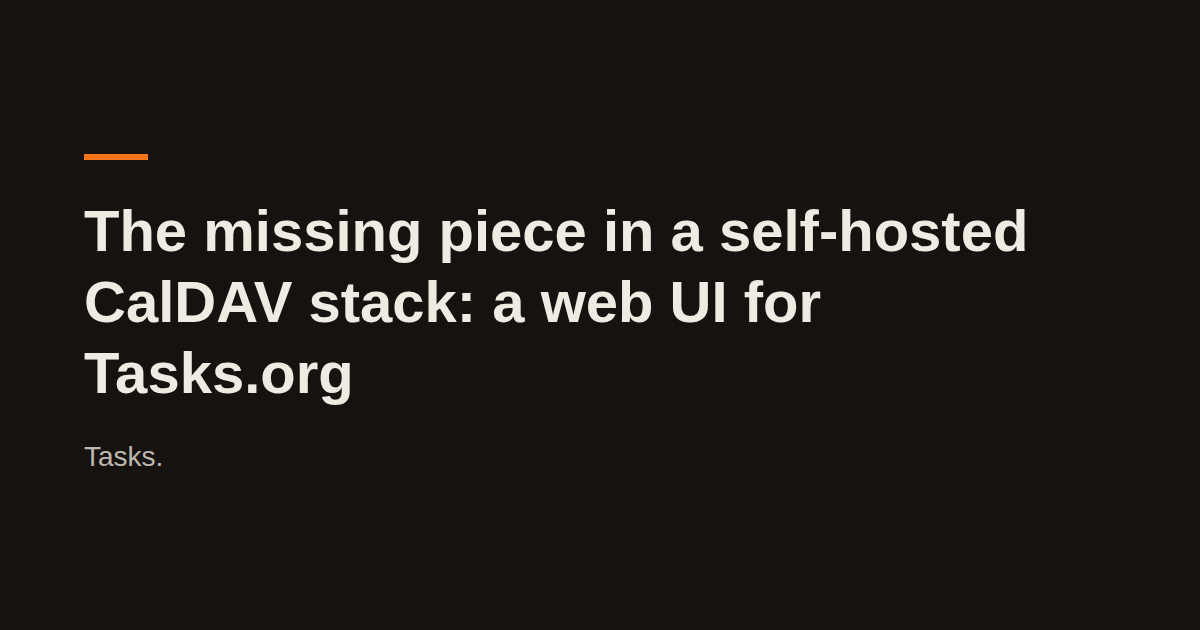
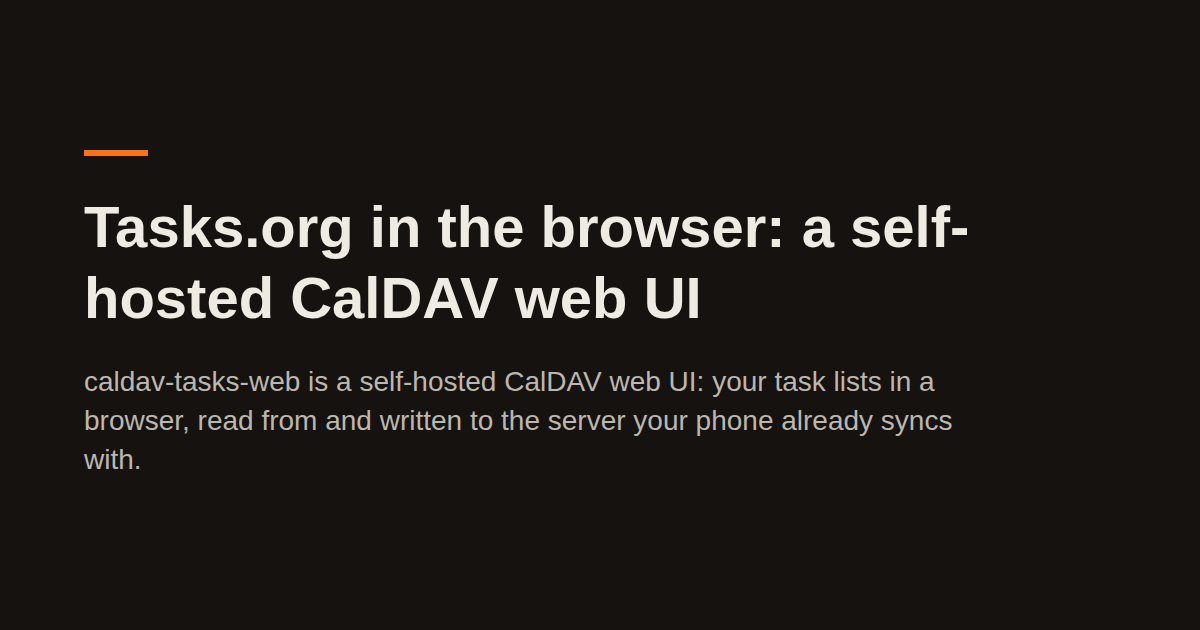
docs(blog): rewrite the Tasks.org CalDAV web UI post (#576)
* docs(blog): rewrite the Tasks.org CalDAV web UI post

* docs(blog): describe the rebuilt caldav-tasks-web

The post described the first version, which kept accounts in SQLite and could lose data on save. It now describes the current app at 8f13fae: one owner per install, no server database, repeating tasks, offline edits, with real screenshots from a local Radicale and the README's install steps.

* docs(blog): name what the first caldav version lacked

---------

Changed region(s): [[0.0617, 0.3317, 0.8633, 0.5127], [0.0617, 0.5429, 0.8017, 0.754], [0.0617, 0.2111, 0.1233, 0.2714]]

diff --git a/content/blog/self-hosted-caldav-web-ui-tasks-org.md b/content/blog/self-hosted-caldav-web-ui-tasks-org.md
@@ -1,145 +1,231 @@
 ---
-title: "The missing piece in a self-hosted CalDAV stack: a web UI for Tasks.org"
-description: "Tasks.org syncs Android tasks to CalDAV. There is no web UI for that data. I built a web app on top of the CalDAV server you already run. It is now being rewritten."
+title: "Tasks.org in the browser: a self-hosted CalDAV web UI"
+description: "caldav-tasks-web is a self-hosted CalDAV web UI: your task lists in a browser, read from and written to the server your phone already syncs with. Made for Tasks.org on Android."
 tldr:
-  - "Update, 8 October 2026: the app is being rewritten. The current version does not work with Stalwart and can lose data when saving a task. There is no demo."
-  - "Tasks.org syncs Android tasks to CalDAV, but no web client existed for that data, so I built a stateless web app on top of the CalDAV server you already run."
-  - "The CalDAV server stays the only source of truth: the app stores only accounts and encrypted credentials, so switching servers moves no todos."
-  - "You don't need Nextcloud for it: the whole stack runs on one small box next to your CalDAV server."
+  - "Update: rewritten for the rebuilt app. It has no database and no accounts; one install serves one person."
+  - "caldav-tasks-web opens your Tasks.org lists in a browser, straight from the CalDAV server your phone syncs with. No second account, no second copy."
+  - "The server only relays; the browser edits a task's text in place, so fields the phone stored, reminders included, survive an edit."
+  - "Tested against Radicale 3.5.4 in Chromium, and I run it with Stalwart 0.16. It is one Docker container behind your HTTPS reverse proxy."
 publishedAt: "2026-07-22"
-readTime: 9
+updatedAt: "2026-10-30"
+readTime: 7
 coverImage: "/img/blog/self-hosted-caldav-web-ui-tasks-org/cover.png"
 coverAlt: "The Hide the Pain Harold meme: Harold smiles at \"Tasks on my phone: synced to CalDAV\", then forces the same smile at \"Tasks on my laptop: no web UI\"."
 coverSize: "480x601"
 topic: "self-hosting"
 relatedTool: "caldav-tasks-web"
+catalogSlug: "cto-advisory-retainer"
 ---
 
-> **Update, 8 October 2026:** The app is being rewritten from scratch, with a
-> new design and the shared CalDAV libraries `@spy4x/caldav` and
-> `@spy4x/time/ical`. The current version does not work with Stalwart, can lose
-> data when you save a task, and has no service worker. There is no public demo.
-> Do not install the current version. This post describes what I set out to
-> build in July 2026, not what the repo does today. Progress is in the
-> [repository](https://github.com/spy4x/caldav-tasks-web).
+> **Update, 30 October 2026:** I rewrote this post for the rebuilt version of
+> caldav-tasks-web. The July post described the first version, which the rewrite
+> replaced; [what changed](#what-changed-since-the-first-version) is below.
 
-Tasks.org syncs Android tasks to CalDAV cleanly. There is no web UI for that
-data. After a year of reaching for my phone to edit a todo at my desk, I built
-one. Here is the gap I noticed in the self-hosted ecosystem, and how I closed it
-without breaking the standards-first contract most of us signed up for.
+![The Today screen of caldav-tasks-web in the dark theme: an Add a task box, two overdue tasks, Fix the gate in Home and Call the plumber in Errands, and four tasks due today with their list names and tags](/img/blog/self-hosted-caldav-web-ui-tasks-org/today.webp "Today, across every list, from a local Radicale with made-up tasks")
 
-## The gap in the stack
+Tasks.org on Android syncs your tasks to a CalDAV server you control. At a desk,
+there is no good way to see them: Tasks.org has no web UI. caldav-tasks-web is
+the self-hosted web UI I built for that gap. It opens the same lists in a
+browser, on the same CalDAV server, and writes your edits back the way Tasks.org
+wrote them.
 
-Tasks.org is the strongest Android task manager and it syncs to CalDAV. The data
-lives on a server you control. The moment you sit at a desk, that data is
-unreachable from a browser — no conformant client exists for the web.
-
-The data is fine. The standard is fine. The clients are missing. A fridge full
-of food, and not a single fork.
+This post is for people who already run a CalDAV server and use Tasks.org. I'll
+show what the app does, how it keeps the phone's data intact, which servers it
+is known to work with, and how to run it.
 
 ![The "Is this a pigeon?" meme: a man labelled "Me at my desk" points at a butterfly labelled "My phone" and asks "Is this a web UI for my tasks?"](/img/blog/self-hosted-caldav-web-ui-tasks-org/pigeon.webp "A year of desk work, one phone in hand")
 
-## Why I didn't reach for Nextcloud Tasks
+## What changed since the first version
 
-Nextcloud is a whole suite, not a CalDAV server. Deploying it to edit a todo is
-like buying a bus to get to the corner shop. People who chose Radicale or
-Stalwart on purpose shouldn't need to deploy a Nextcloud instance to edit a todo
-on desktop. The fix had to assume the CalDAV server is the only piece already
-running.
+I first wrote this post in July 2026 about the first version. That version kept
+user accounts and encrypted server passwords in its own SQLite database. It did
+not work with Stalwart, and it could lose data when you saved a task. So I
+rewrote it.
 
-![The Left Exit 12 meme: the road sign points straight on to "Nextcloud for one todo" and right to "The CalDAV server I already run", and a car labelled "Me" swerves hard onto the exit](/img/blog/self-hosted-caldav-web-ui-tasks-org/exit.webp "Taking the exit to the server I already have")
+The rewrite has no database and no accounts. One install is one owner and one
+CalDAV account; a second person runs a second install. It also does what the
+first version did not: completing a repeating task moves it to its next date,
+and edits made offline are queued. Everything below describes the current code,
+at commit
+[`8f13fae`](https://github.com/spy4x/caldav-tasks-web/tree/8f13fae44eb5450ba28c0a40876e6f776770b651).
 
-The goal is a task UI for whichever CalDAV server you already run. I used the
-current version against Radicale. Stalwart does not work with it today.
-Nextcloud and Baikal are untested.
+## What you can do in the browser
 
-## Architecture: CalDAV as the only source of truth
+- See **Today** (overdue and due today), **Upcoming** (the next 14 days), each
+  list, and **Search** over titles, notes and tags across all lists.
+- Add, edit, complete, delete and undo. The quick-add line understands a tag, a
+  time and a priority: `Order compost #garden 5pm !1`.
+- Use subtasks, tags, priority, due and start dates, notes, and manual order by
+  drag or keyboard. Deleting a task deletes its subtasks too, as Tasks.org does.
+- Create, rename, recolour and delete lists while you are online.
+- Get reminder notifications through Web Push, for the reminders Tasks.org
+  stores on a task. They are off until you set them up.
+- Press `?` for the keyboard shortcuts.
 
-VTODO files live on the CalDAV server. The web app is a client. In the current
-version, SQLite in the API container holds user accounts and AES-GCM-encrypted
-server credentials and nothing else. Switch CalDAV servers and no todos move.
+![The Errands list: Water the plants, Plan the garden with its two subtasks Buy seeds and Clear the beds, and Call the plumber, each with a drag handle, in manual order](/img/blog/self-hosted-caldav-web-ui-tasks-org/errands.webp "One list in manual order, with subtasks, as Tasks.org stores them")
 
-That property is the design goal. The current version did not meet it: it does
-not work with Stalwart, and it can lose data when you save a task. The rewrite
-exists to fix that. The design goal and the current version are not on speaking
-terms yet.
+The app stores things the way Tasks.org does: a list is a CalDAV calendar, a tag
+is a `CATEGORIES` value, a subtask points to its parent with `RELATED-TO`,
+manual order is `X-APPLE-SORT-ORDER`, and priority is 1, 5, 9 or 0. Open the
+same list on the phone and it looks the same.
 
-## CQRS in a UI app (the idea, not what runs today)
+## Repeating tasks
 
-The read/write split maps cleanly onto CalDAV's GET versus PROPPATCH/PUT/DELETE.
-Each side tests in isolation; the CalDAV adapter is the only piece that knows
-the protocol. The idea was that Radicale and Stalwart would both speak through
-the same PROPFIND/PROPPATCH/PUT/DELETE interface, so adding a third server is a
-new adapter class, not a chain of `if (serverType === ...)` blocks. The rewrite
-does not use a CQRS layer.
+A task can repeat daily, weekly, monthly or yearly, every N days, weeks, months
+or years, on chosen weekdays, and end never, on a date or after a number of
+times.
 
-The CalDAV XML responses vary more than they should. Standards are great: every
-server has its own. Radicale uses the default namespace and emits lowercase
-`<d:response>`. Stalwart emits uppercase `<D:response>` and `<A:response>` for
-the caldav namespace. Substring-matching "calendar" in the response body matches
-the user's principal home on top of actual calendars. The parsers have to be
-case-insensitive, prefix-tolerant, and filter calendars by
-`<(prefix:)?calendar/>` inside `<resourcetype>`. Stalwart still fails in the
-current version.
+![The repeat part of the task editor: Repeat set to Weekly, every 1 week, buttons for each weekday, Ends set to Never, and a choice to count the next date from the due date or from the day it is completed](/img/blog/self-hosted-caldav-web-ui-tasks-org/editor.webp "The repeat settings in the task editor")
 
-![The Mocking SpongeBob meme: "Radicale: `<d:response>`" at the top, and SpongeBob mocking it at the bottom with "Stalwart: `<D:response>` and `<A:response>`"](/img/blog/self-hosted-caldav-web-ui-tasks-org/mocking.webp "Same standard, different capital letters")
+The editor also asks what the next date counts from: the due date, or the day
+you complete the task. Tasks.org has the same choice, but it keeps it in the
+phone's own database and writes nothing about it into the task. So the web app
+keeps its choice in the task as `X-REPEAT-FROM:COMPLETION`, which Tasks.org does
+not read. Set it in both apps; if they differ, the app you complete the task in
+decides the next date.
 
-## Preact Signals instead of hooks
+A repeat rule the app cannot reproduce is never rewritten. The task shows
+"Complete this one in Tasks.org" instead.
 
-VTODO state changes constantly — status, priority, due date, percent complete,
-complete vs active, filters, sort, tag toggles. Signals give surgical UI updates
-without a virtual DOM tree of hooks to debug. A hook-based version of this
-project would have spent most of its life chasing re-render storms.
+## How it keeps the phone's data intact
 
-![The Batman slapping Robin meme: Robin says "Hooks for a list that changes constantly" and Batman slaps him, saying "Signals. No re-render storms."](/img/blog/self-hosted-caldav-web-ui-tasks-org/batman.webp "For this app, at least. Please don't email me about hooks")
+The first version could lose data when you saved a task. Here is how the current
+one avoids it. Tasks.org writes fields the web app doesn't show: its own `X-`
+lines, reminder blocks (`VALARM`), its `PRODID`. An app that turns a task into
+its own model and writes that model back drops all of them.
 
-The hooks-vs-signals debate is a real one and the right answer depends on the
-app. For a heavily stateful list of items with frequent mutations and dense
-filtering, signals win on clarity and on raw update count. The codebase is
-roughly half the size it would be in React.
+So the browser never rebuilds a task. To change one, it reads the task's text as
+stored, changes only the properties you edited, and writes the whole text back.
+Everything else stays as it was. A browser test against Radicale checks that a
+saved edit keeps a reminder and a property the app doesn't know
+([`e2e/tasks.e2e.ts`](https://github.com/spy4x/caldav-tasks-web/blob/8f13fae44eb5450ba28c0a40876e6f776770b651/e2e/tasks.e2e.ts)).
 
-## One small box
+The server in between is a relay. It signs you in, passes CalDAV requests on and
+serves the app. It never edits a task and never parses one, except to find due
+reminders when you turn notifications on. Your CalDAV password stays on the
+server; the browser never sees it.
 
-The current version deploys with `deno task deploy`, which rsyncs the project to
-a Hetzner box behind Traefik and runs `docker compose up -d --build`. It is not
-a single binary. It sits behind the same Traefik as the CalDAV server, and its
-SQLite file can be backed up by the same restic job as the CalDAV data.
+Because the server sends your CalDAV credentials with every request, it refuses
+any address the browser sends that is not a calendar it listed, or a task
+directly inside one. This is the check for "directly inside", from
+[`apps/server/caldav/scope.ts`](https://github.com/spy4x/caldav-tasks-web/blob/8f13fae44eb5450ba28c0a40876e6f776770b651/apps/server/caldav/scope.ts):
 
-There is no Kubernetes. There is no service mesh. My todo list does not need to
-auto-scale. The whole stack fits on a single $20/month box and stays there. A
-real engineer reading this knows that's the right shape for a personal
-productivity tool.
+```ts
+export function parentCalendar(objectPath: string): string | null {
+  if (objectPath.endsWith("/")) return null
+  const cut = objectPath.lastIndexOf("/") + 1
+  if (/%(2f|5c)/i.test(objectPath.slice(cut))) return null
+  return objectPath.slice(0, cut)
+}
+```
 
-![The "One does not simply" meme with Boromir: "One does not simply need Kubernetes for a personal todo tool"](/img/blog/self-hosted-caldav-web-ui-tasks-org/kubernetes.webp "One box, one Traefik, one restic job")
+1. An address ending in `/` is a collection, not a task, so it has no parent
+   calendar.
+2. The task's own name may not hold an encoded slash or backslash (`%2F`,
+   `%5C`): the CalDAV server might decode it into a separator and reach outside
+   the calendar.
+3. Otherwise the calendar is everything up to the last `/`, and the relay then
+   checks that it is one of the calendars it listed.
 
-## What it cost and what it doesn't do
+When two devices change the same task, nothing is overwritten silently. Every
+write carries the task's version marker (its ETag). If the task changed since
+the browser read it, the app reads the fresh copy and applies your edit to it.
+If you and the other device changed the same field, it asks you instead.
 
-What the current version does: lists CalDAV calendars with their colors and
-renders a touch-first task list with filters, tags and due dates, plus a Kanban
-view. Credentials are encrypted with AES-GCM at rest.
+## Offline
 
-What it doesn't do: it does not work with Stalwart, it can lose data when you
-save a task, and it has no service worker, so it is a web app you open in a
-browser, not an installable offline app. It has no sync engine (it is a client,
-not a server), no recurring-task editor and no native mobile wrapper.
+The browser keeps a copy of your lists in IndexedDB and shows it first, then
+refreshes. Edits made offline wait in a queue and are sent when the network
+returns. If a queued edit clashes with a change made elsewhere, you choose:
+**Keep mine** writes the fields you changed onto the server's copy, **Use
+theirs** drops your edit. A service worker lets the app open offline and install
+as an app.
 
-![The Futurama Fry "Not sure if" meme: "Not sure if installable offline app", "Or just a web app in a browser tab"](/img/blog/self-hosted-caldav-web-ui-tasks-org/fry.webp "Spoiler: a browser tab")
+## Which CalDAV servers work
 
-I built it for myself. The rewrite is for the same reason.
+Only what the repository shows
+([`docs/compatibility.md`](https://github.com/spy4x/caldav-tasks-web/blob/8f13fae44eb5450ba28c0a40876e6f776770b651/docs/compatibility.md)):
 
-## What would help
+| Server    | Version | Status    |
+| --------- | ------- | --------- |
+| Radicale  | 3.5.4   | Tested    |
+| Stalwart  | 0.16    | In my use |
+| Nextcloud | -       | Untested  |
+| Baikal    | -       | Untested  |
 
-Nothing to test yet. The rewrite is not ready, and I will not promise features
-or dates. If you want to follow it, watch the
-[repository](https://github.com/spy4x/caldav-tasks-web).
+Radicale is tested: the browser tests run against it, locally and in CI.
+Stalwart is the server I run it against myself; no automated test talks to it.
 
-## Closing
+Any other server needs CalDAV calendars that hold tasks (`VTODO`) and accept a
+username and password. If you try one, an issue with the server, its version and
+what happened helps the next person.
 
-Self-hosting is a stance, not a chore. Every SaaS-shaped tool that wants to be
-the source of truth is a small erosion of that stance. The gap in the
-self-hosted CalDAV stack was real, and fixing it didn't need to be
-enterprise-grade — it just needed to honour the contract: the server you trust,
-the format you control, the data you already have.
+On the client side, the tests use task files in Tasks.org's form, but no test
+drives the Android app itself. The browser tests run in Chromium only, so
+Firefox and Safari are untested.
 
-If you want a desktop UI for the same data your Android phone sees, watch the
-repository for the rewrite. I would not install the current version.
+## What it doesn't do
+
+- **Several users.** One install is one owner. It is not a hosted service and
+  has no sign-up.
+- **Move a task to another list.** It refuses that for now.
+- **Every edge case.** An edit can be lost in rare cases: two offline edits made
+  from the same stale copy, or a task deleted on another device while you edit
+  it. That is
+  [issue #119](https://github.com/spy4x/caldav-tasks-web/issues/119).
+
+## How to run it
+
+You need a CalDAV account and a reverse proxy with HTTPS. Sign-in uses a
+`__Host-` cookie, and the service worker and notifications need a secure origin,
+so plain `http://` works only on `localhost`.
+
+First make the hash of the password you will sign in with. This step needs
+[Deno](https://deno.com/) 2 and a clone of the repository, because the image
+does not carry the script:
+
+```bash
+git clone https://github.com/spy4x/caldav-tasks-web && cd caldav-tasks-web
+echo "AUTH_PEPPER=$(openssl rand -base64 32)" > .env
+deno task password:hash     # type your sign-in password; it prints the hash
+```
+
+Then start the container, with the same `AUTH_PEPPER`. Keep single quotes around
+the hash, because it contains `$`:
+
+```bash
+docker run -d --name caldav-tasks-web --restart unless-stopped \
+  -p 127.0.0.1:8080:8080 \
+  -e PUBLIC_URL=https://tasks.example.com \
+  -e CALDAV_URL=https://caldav.example.com \
+  -e CALDAV_USERNAME='<your CalDAV username>' \
+  -e CALDAV_PASSWORD='<your CalDAV password>' \
+  -e OWNER_PASSWORD_HASH='<your password hash>' \
+  -e AUTH_PEPPER='<the AUTH_PEPPER from .env>' \
+  -e SESSION_SECRET='<a random string of 32 or more characters>' \
+  antonshubin/caldav-tasks-web:latest
+```
+
+Both blocks are from the
+[README](https://github.com/spy4x/caldav-tasks-web/blob/8f13fae44eb5450ba28c0a40876e6f776770b651/README.md#run-it).
+For a real install, pin a release tag instead of `latest`; the
+[tool page](/tools/caldav-tasks-web) shows the current one. The port is
+published on `127.0.0.1` only, so put your reverse proxy on the same machine.
+`GET /health` answers `{"status":"ok"}`. Reminders, the proxy setup and backups
+are in
+[`docs/self-hosting.md`](https://github.com/spy4x/caldav-tasks-web/blob/8f13fae44eb5450ba28c0a40876e6f776770b651/docs/self-hosting.md).
+
+## Try it
+
+The [caldav-tasks-web page](/tools/caldav-tasks-web) has a one-minute demo with
+made-up tasks: quick add, a subtask moved by keyboard, a weekly repeat, complete
+and undo. If you also want an AI assistant to read and add tasks on the same
+server, [caldav-mcp](/tools/caldav-mcp) is my MCP server for CalDAV events and
+tasks.
+
+Running this for a team? I set this up for small companies, as part of
+[Ongoing](/catalog/cto-advisory-retainer) work: monitoring, backups and security
+patches after launch.
+
+Which CalDAV server do you run Tasks.org against? If it isn't Radicale or
+Stalwart, try it and tell me in an issue whether it works.
